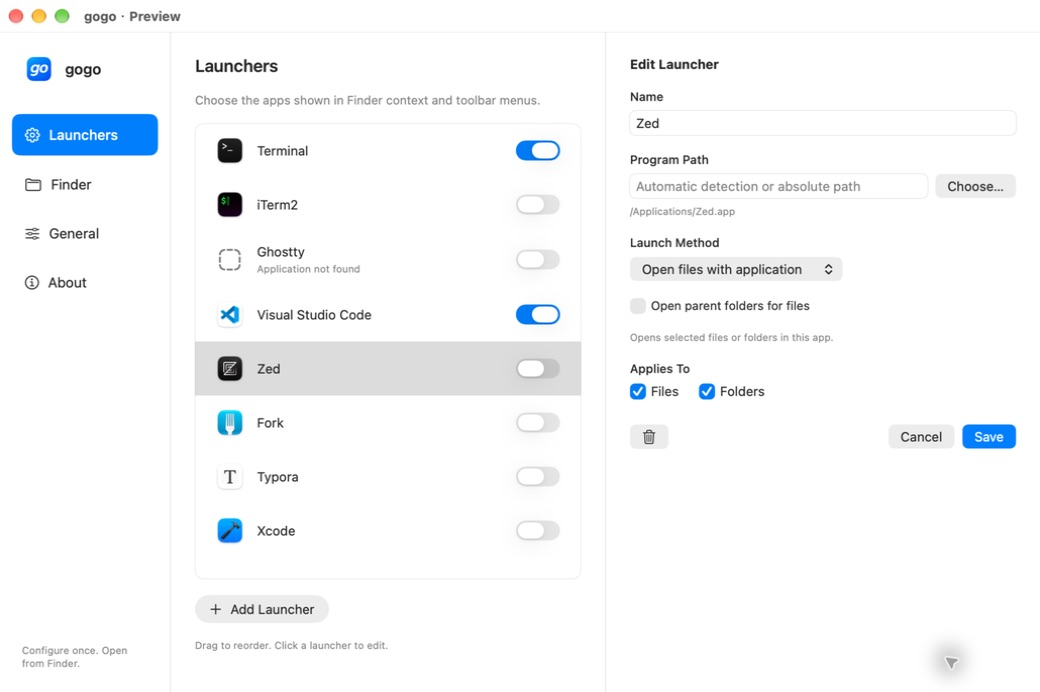
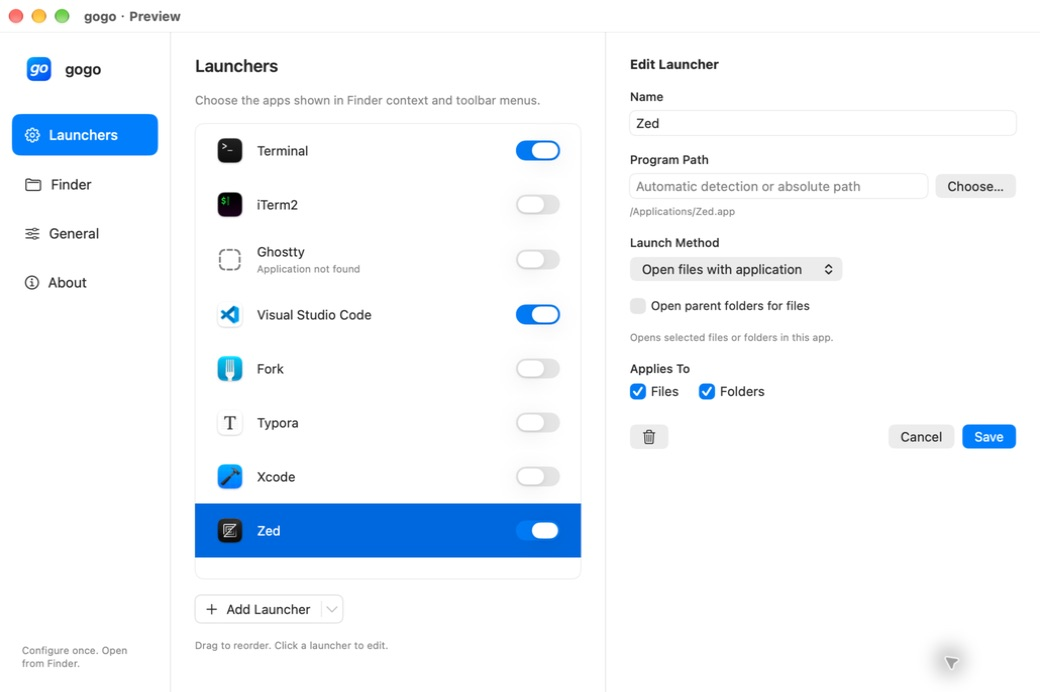
Restore missing presets from a split Add Launcher button

Changed region(s): [[0.1846, 0.6676, 0.5846, 0.8194], [0.1846, 0.4855, 0.5846, 0.6373], [0.2154, 0.8497, 0.3077, 0.9104]]

diff --git a/Sources/Gogo/SettingsView.swift b/Sources/Gogo/SettingsView.swift
@@ -9,6 +9,7 @@ struct SettingsView: View {
     @State private var draft: Launcher?
     @State private var original: Launcher?
     @State private var pending: Launcher?
+    @State private var pendingPresetID: UUID?
     @State private var discard = false
     @State private var delete = false
 
@@ -34,8 +35,12 @@ struct SettingsView: View {
             Button(model.t("ok")) { model.error = nil }
         } message: { Text(model.error ?? "") }
         .confirmationDialog(model.t("discard.title"), isPresented: $discard) {
-            Button(model.t("discard"), role: .destructive) { setDraft(pending); pending = nil }
-            Button(model.t("cancel"), role: .cancel) { pending = nil }
+            Button(model.t("discard"), role: .destructive) {
+                if let id = pendingPresetID { restorePreset(id) }
+                else { setDraft(pending) }
+                pending = nil; pendingPresetID = nil
+            }
+            Button(model.t("cancel"), role: .cancel) { pending = nil; pendingPresetID = nil }
         }
         .confirmationDialog(model.t("delete.title"), isPresented: $delete) {
             Button(model.t("delete"), role: .destructive) {
@@ -125,11 +130,37 @@ struct SettingsView: View {
                 .clipShape(RoundedRectangle(cornerRadius: 9))
                 .overlay(RoundedRectangle(cornerRadius: 9).stroke(.primary.opacity(0.08)))
                 .accessibilityIdentifier("launcher.list")
-                Button {
-                    choose(Launcher(name: model.t("custom.default"), method: .application))
-                } label: {
-                    Label(model.t("launcher.add"), systemImage: "plus")
-                }.controlSize(.large).disabled(model.readOnly).accessibilityIdentifier("launcher.add")
+                HStack(spacing: 0) {
+                    Button {
+                        choose(Launcher(name: model.t("custom.default"), method: .application))
+                    } label: {
+                        Label(model.t("launcher.add"), systemImage: "plus")
+                            .padding(.horizontal, 10).frame(height: 28).contentShape(Rectangle())
+                    }
+                    .buttonStyle(.plain).accessibilityIdentifier("launcher.add")
+                    Divider().frame(height: 16)
+                    Menu {
+                        ForEach(model.availablePresets) { preset in
+                            Button(preset.name) {
+                                if draft != original {
+                                    pending = nil; pendingPresetID = preset.id; discard = true
+                                } else { restorePreset(preset.id) }
+                            }
+                        }
+                    } label: {
+                        Image(systemName: "chevron.down").font(.system(size: 10, weight: .semibold))
+                            .frame(width: 28, height: 28).contentShape(Rectangle())
+                    }
+                    .menuStyle(.borderlessButton).menuIndicator(.hidden)
+                    .disabled(model.availablePresets.isEmpty)
+                    .accessibilityLabel(model.t("launcher.restore"))
+                    .accessibilityIdentifier("launcher.restore")
+                    .help(model.t(model.availablePresets.isEmpty ? "launcher.restore.none" : "launcher.restore"))
+                }
+                .fixedSize()
+                .background(Color(nsColor: .controlBackgroundColor), in: RoundedRectangle(cornerRadius: 6))
+                .overlay(RoundedRectangle(cornerRadius: 6).stroke(.primary.opacity(0.15)))
+                .disabled(model.readOnly)
                 Text(model.t("launchers.hint")).font(.caption).foregroundStyle(.secondary)
                 Spacer(minLength: 0)
             }.padding(24).frame(minWidth: 340, idealWidth: 400, maxWidth: .infinity)
@@ -153,8 +184,12 @@ struct SettingsView: View {
 
     private func choose(_ value: Launcher?) {
         guard value?.id != draft?.id else { return }
+        pendingPresetID = nil
         if draft != original { pending = value; discard = true }
         else { setDraft(value) }
+    }
+    private func restorePreset(_ id: UUID) {
+        if let preset = model.restorePreset(id: id) { setDraft(preset) }
     }
     private func setDraft(_ value: Launcher?) {
         draft = value

diff --git a/Tests/GogoAppSupportTests/AppSupportTests.swift b/Tests/GogoAppSupportTests/AppSupportTests.swift
@@ -129,3 +129,44 @@ private func temporaryDirectory() throws -> URL {
     #expect(!model.moveLaunchers(from: IndexSet(integer: 0), to: 3))
     #expect(model.configuration == initial)
 }
+
+@MainActor @Test func removedPresetsRestoreWithoutChangingExistingLaunchers() throws {
+    let directory = try temporaryDirectory()
+    defer { try? FileManager.default.removeItem(at: directory) }
+    let file = ConfigurationFile(url: directory.appendingPathComponent("configuration.json"))
+    let model = AppModel(preview: true, configurationFile: file)
+    let preset = try #require(Launcher.presets.first { $0.method == .iTerm })
+    let custom = Launcher(name: preset.name, program: "/usr/bin/true", method: .executable)
+    #expect(model.update {
+        $0.launchers.removeAll { $0.id == preset.id }
+        $0.launchers.reverse()
+        $0.launchers[0].name = "Renamed preset"
+        $0.launchers.append(custom)
+    })
+    let existing = model.configuration.launchers
+    #expect(model.availablePresets.map(\.id) == [preset.id])
+    let restored = try #require(model.restorePreset(id: preset.id))
+    var expected = preset; expected.enabled = true
+    #expect(restored == expected)
+    #expect(model.configuration.launchers == existing + [expected])
+    #expect(model.availablePresets.isEmpty)
+    #expect(model.restorePreset(id: preset.id) == nil)
+    #expect(model.restorePreset(id: UUID()) == nil)
+    #expect(AppModel(preview: true, configurationFile: file).configuration == model.configuration)
+}
+
+@MainActor @Test func failedPresetRestoreRemainsAvailableAndPreservesConfiguration() throws {
+    let directory = try temporaryDirectory()
+    defer { try? FileManager.default.removeItem(at: directory) }
+    let file = ConfigurationFile(url: directory.appendingPathComponent("configuration.json"))
+    var configuration = Configuration()
+    let preset = configuration.launchers.removeFirst()
+    try file.write(configuration)
+    let model = AppModel(preview: true, configurationFile: file)
+    try FileManager.default.removeItem(at: file.url)
+    try FileManager.default.createDirectory(at: file.url, withIntermediateDirectories: true)
+    #expect(model.restorePreset(id: preset.id) == nil)
+    #expect(model.configuration == configuration)
+    #expect(model.availablePresets.map(\.id) == [preset.id])
+    #expect(model.error != nil)
+}

diff --git a/Sources/Gogo/AppModel.swift b/Sources/Gogo/AppModel.swift
@@ -57,6 +57,17 @@ final class AppModel: ObservableObject {
         return save(next)
     }
 
+    var availablePresets: [Launcher] {
+        let existingIDs = Set(configuration.launchers.map(\.id))
+        return Launcher.presets.filter { !existingIDs.contains($0.id) }
+    }
+
+    func restorePreset(id: UUID) -> Launcher? {
+        guard !readOnly, var preset = availablePresets.first(where: { $0.id == id }) else { return nil }
+        preset.enabled = true
+        return saveLauncher(preset) ? preset : nil
+    }
+
     @discardableResult
     func moveLaunchers(from source: IndexSet, to destination: Int) -> Bool {
         guard !readOnly, !source.isEmpty, source.allSatisfy(configuration.launchers.indices.contains),

diff --git a/docs/VALIDATION.md b/docs/VALIDATION.md
@@ -4,17 +4,17 @@ Date: September 16, 2026. Environment: macOS 27.0 (26A428), Xcode 27.0 (27A266a)
 
 ## Verified in the current revision
 
-- **17 tests passed:** 9 core tests and 8 application-support tests.
+- **19 tests passed:** 9 core tests and 10 application-support tests.
 - Core coverage: literal Unicode, quote, space, and newline arguments; selection semantics; parent-folder deduplication; configuration round trips; corruption preservation; unsupported versions; invalid and oversized launch requests.
-- App-model coverage: Follow System defaults, preservation of explicit Chinese/English choices, add/edit/disable/remove persistence, drag move semantics in both directions and across multiple indices, rejected invalid moves, failed writes leaving published state unchanged, and corrupt configuration remaining read-only.
+- App-model coverage: Follow System defaults, preservation of explicit Chinese/English choices, add/edit/disable/remove persistence, drag move semantics in both directions and across multiple indices, rejected invalid moves, failed writes leaving published state unchanged, and corrupt configuration remaining read-only. Preset restoration tests cover iTerm-specific defaults, stable identity, duplicate prevention, preservation of edited/reordered/custom launchers, reload persistence, and failed writes.
 - Actual process test: the launcher starts a controlled executable fixture, which records its received argument and working directory. Shell-like text stays literal and does not execute; the working directory's filesystem identity matches the requested folder.
 - Unsigned Debug build passed for the host and Finder extension.
 - Unsigned Release universal build passed for both targets with arm64 and x86_64. Deployment target remains 15.7. This is build evidence, not runtime evidence for Intel or earlier macOS versions.
 - English and Chinese localization resources have matching keys. English and Simplified Chinese READMEs are maintained together; developer documentation remains English.
 - New configurations follow the system language. On the Chinese-language development system the native UI opens in Chinese. Explicit saved choices remain unchanged.
 - Zed, Fork, and Typora presets use bundle identifiers verified against the installed apps. All three resolve to their actual icons and paths in the native UI. Fork opens directories (or parent directories of selected files). Individual launch/runtime coverage remains pending below.
-- Both README screenshots were recaptured with a fresh default list: eight presets, no Cursor or custom test entries. Existing saved launcher lists are preserved rather than reset by the preset update.
-- Add Launcher is a regular button and directly opens a new custom-launcher editor, without an intermediate menu.
+- Both README screenshots show the split button and eight presets after restoring Zed to the end of the list, with no Cursor or custom test entries. Existing saved launcher lists are preserved rather than reset by the preset update.
+- Add Launcher is a split button: its main segment directly opens a custom editor, and its arrow lists only missing presets. Native preview verified removing and restoring Zed, automatic enablement and append order, and the arrow becoming disabled after restoration. Cancelling the unsaved-draft confirmation preserved the draft; confirming it restored the preset.
 - In isolated preview, a custom application path and two argument lines were saved through the UI. The resulting configuration file contained the exact path and argument array.
 - English → Simplified Chinese → English was verified in preview. The sidebar, settings content, and application Edit menu update without relaunching. Follow System was also selected and persisted through the native picker.
 - Native launcher rows expose no action menu. Clicking a row updates the inspector; a reordered preview list was observed in the UI and configuration file, then retained after relaunch.
@@ -43,7 +43,7 @@ The preview uses a separate configuration file. Its successful saves do not prov
 | Individual terminal/editor integrations | Presets still need cold-start and already-running checks, including iTerm2 Automation approval and denial. The executable fixture does not establish terminal compatibility. |
 | macOS 15.7 and 26 runtime | No matching runtime environment available. |
 | Intel runtime | Universal binaries compiled; no Intel runtime validation. |
-| UI delete/discard and drag edge cases | Basic row selection and reordered-list persistence were observed in preview. Failed-save, invalid-index, and multi-index moves are covered by model tests; exhaustive native interaction coverage remains pending. |
+| UI drag edge cases | Delete, restore, and discard/cancel flows were exercised in preview. Basic row selection and reordered-list persistence were also observed. Failed-save, invalid-index, and multi-index moves are covered by model tests; exhaustive native interaction coverage remains pending. |
 | Dark mode and minimum-window-size visual review | Pending; current captured visual scope is the standard-size light appearance. |
 | Developer ID, notarization, DMG, downloaded installation | Not performed. No release is published. |
 

diff --git a/design-qa.md b/design-qa.md
@@ -11,7 +11,7 @@ Scope: the captured standard-size light-appearance settings UI, with the user's 
 - Additional implementation captures: `docs/screenshots/about-en.png`, `general-en.png`, `general-zh.png`, `general-auto.png`, `launchers-zh.png`, and `finder-en.png`, each 1040 × 692 px.
 - The source and current launcher screenshot were opened together in one comparison input. The source is a multi-window board: compare its upper-left settings window, not the whole board, to the implementation.
 - No pixel-for-pixel or CSS comparison is claimed. This is a native AppKit/SwiftUI app. Captures use one output pixel per logical point; the source board has no authoritative point density.
-- Current main state: the Zed preset selected in a fresh eight-launcher list, including Fork and Typora. Both README screenshots were recaptured from the native app after updating the presets; no custom test launcher remains. The English labels and removed implementation details are intentional user-requested changes to the Chinese reference.
+- Current main state: the restored Zed preset selected at the end of an eight-launcher list, including Fork and Typora. Both README screenshots were recaptured from the native app after adding the split Add Launcher button; no custom test launcher remains. The English labels and removed implementation details are intentional user-requested changes to the Chinese reference.
 - Full-view evidence covers the sidebar/list/inspector hierarchy, native controls, row grouping, primary Save action, and retained logo. The standalone About and General captures provide readable focused evidence for branding and removed copy; an additional crop was unnecessary.
 
 ## Review findings
@@ -23,7 +23,7 @@ No actionable P0/P1/P2 mismatch was found within this captured scope.
 - **Colors:** blue sidebar selection and enabled toggles, neutral native surfaces, and a blue Save button follow the reference. Inactive-window controls naturally turn gray; the final main capture shows the active appearance.
 - **Image quality:** the blue-and-white go icon is retained and clear in the sidebar and About page. Installed apps use their real icons; missing apps use a system placeholder and a truthful availability label.
 - **Copy/content:** New settings follow the system language; English and Simplified Chinese can be selected explicitly. About omits the bundle ID and development-validation copy. General and Finder omit process-lifecycle explanations. Argument and location guidance remains because it affects user choices.
-- **Interactions:** direct add, path/argument editing, save, language switching, and persistence were exercised. Native list selection now drives the inspector, and reordered preview rows survive relaunch. Per-row action menus have been removed. A failed real-container save retained the previous visible value. Broader control coverage is tracked in `docs/VALIDATION.md`.
+- **Interactions:** direct add, preset deletion/restoration, unsaved-draft cancellation/confirmation, path/argument editing, save, language switching, and persistence were exercised. The split button separates custom creation from preset restoration, with a disabled arrow when all presets are present. Native list selection now drives the inspector, and reordered preview rows survive relaunch. Per-row action menus have been removed. A failed real-container save retained the previous visible value. Broader control coverage is tracked in `docs/VALIDATION.md`.
 
 ## Comparison history
 
@@ -34,5 +34,5 @@ No actionable P0/P1/P2 mismatch was found within this captured scope.
 ## Follow-up coverage
 
 - Inspect dark appearance and minimum window size.
-- Exercise UI delete, failed-drop, and unsaved-draft edge cases.
+- Exercise native failed-drop and remaining drag edge cases.
 - Capture actual signed Finder menus on every supported OS; settings screenshots are not a substitute.

diff --git a/AGENTS.md b/AGENTS.md
@@ -6,7 +6,7 @@
 - The host provides settings and About only, without a resident menu bar icon. macOS manages the Finder extension.
 - Follow `docs/design/selected-concept.png` and retain the blue icon with white italic `go`.
 - Keep implementation details out of the UI: no bundle ID in About, process-lifecycle notes, signing architecture, or internal verification status. Explain behavior only when it helps the user make a choice.
-- Add Launcher opens a new editor directly, without a submenu. Launcher rows are reordered by dragging and edited by clicking; do not add per-row action menus.
+- Add Launcher is a split button: the main segment opens a custom editor directly, and the separate arrow lists missing presets. Disable the arrow when no presets are missing. Restoring a preset appends and enables it without resetting existing launchers. Launcher rows are reordered by dragging and edited by clicking; do not add per-row action menus.
 - Version shared configuration and write it atomically. Never overwrite a file that failed to load.
 - Pass arguments as arrays; never interpolate user paths into shell source.
 - Update English and Chinese resources together. Compilation does not establish Finder runtime compatibility.

diff --git a/docs/design/DECISIONS.md b/docs/design/DECISIONS.md
@@ -15,7 +15,7 @@ On September 16, 2026, the user selected the first concept and explicitly retain
 - New configurations default to Follow System. Explicit English and Simplified Chinese choices remain available; saved choices are preserved.
 - Both English and Simplified Chinese READMEs are maintained. Developer documentation is written in English. The original Chinese concept image remains an approved historical visual reference.
 - About omits the bundle identifier. Lifecycle, signing, and validation details belong in this documentation, not in the product UI.
-- Add Launcher directly opens a new editor. No intermediate menu or preset submenu.
+- Add Launcher is a split button: the main segment opens a custom editor; the arrow lists missing presets and is disabled when none are missing. Restoring a preset appends it with its default settings and enables it. Existing presets are omitted, and an unsaved editor draft requires confirmation before switching.
 - Launcher rows use native drag-and-drop reordering. Clicking a row edits it; there are no per-row action menus.
 - Usage guidance stays where it affects a decision: arguments, working folders, supported selection types, and application launching behavior.
 

diff --git a/README.md b/README.md
@@ -63,7 +63,7 @@ User-selected executables may themselves be long-lived. The host's lifecycle doe
 
 Drag launcher rows to change their order; changes are saved when you drop. Click a row to edit it.
 
-Click **Add Launcher** to start editing a new launcher immediately. Save adds it to the list; Cancel discards the new entry. The selected design and blue `go` logo remain the visual baseline. About shows product information without the bundle identifier. Implementation and release-validation details belong in developer documentation.
+**Add Launcher** is a split button. Click the main segment to create a custom launcher; Save adds it and Cancel discards the draft. The separate arrow lists missing presets. Select one to restore its default settings, enable it, and append it to the list. Existing launchers keep their order and settings. The arrow is disabled when there are no presets to restore. The selected design and blue `go` logo remain the visual baseline. About shows product information without the bundle identifier. Implementation and release-validation details belong in developer documentation.
 
 Existing saved language choices are preserved. New configurations default to Follow System.
 

diff --git a/README.zh-CN.md b/README.zh-CN.md
@@ -63,7 +63,7 @@ open -n .build/xcode/Build/Products/Debug/gogo.app --args --preview
 
 拖拽启动项即可调整顺序，松开后自动保存。点击启动项进入编辑面板。
 
-点击**添加启动项**直接编辑新项目；保存后加入列表，取消则放弃新项目。界面沿用选定的分栏设计与蓝底白色 `go` 图标；关于页只展示产品信息，不展示 bundle ID 或内部实现细节。
+**添加启动项**采用两段式按钮。点击左侧直接新建自定义启动项，保存后加入列表，取消则放弃草稿。右侧箭头列出当前缺少的预设，选择后恢复默认参数、启用并添加到列表末尾，不影响已有启动项的顺序和设置。没有需要恢复的预设时，箭头置灰。界面沿用选定的分栏设计与蓝底白色 `go` 图标；关于页只展示产品信息，不展示 bundle ID 或内部实现细节。
 
 已有的语言选择会保留，新配置默认跟随系统。
 
